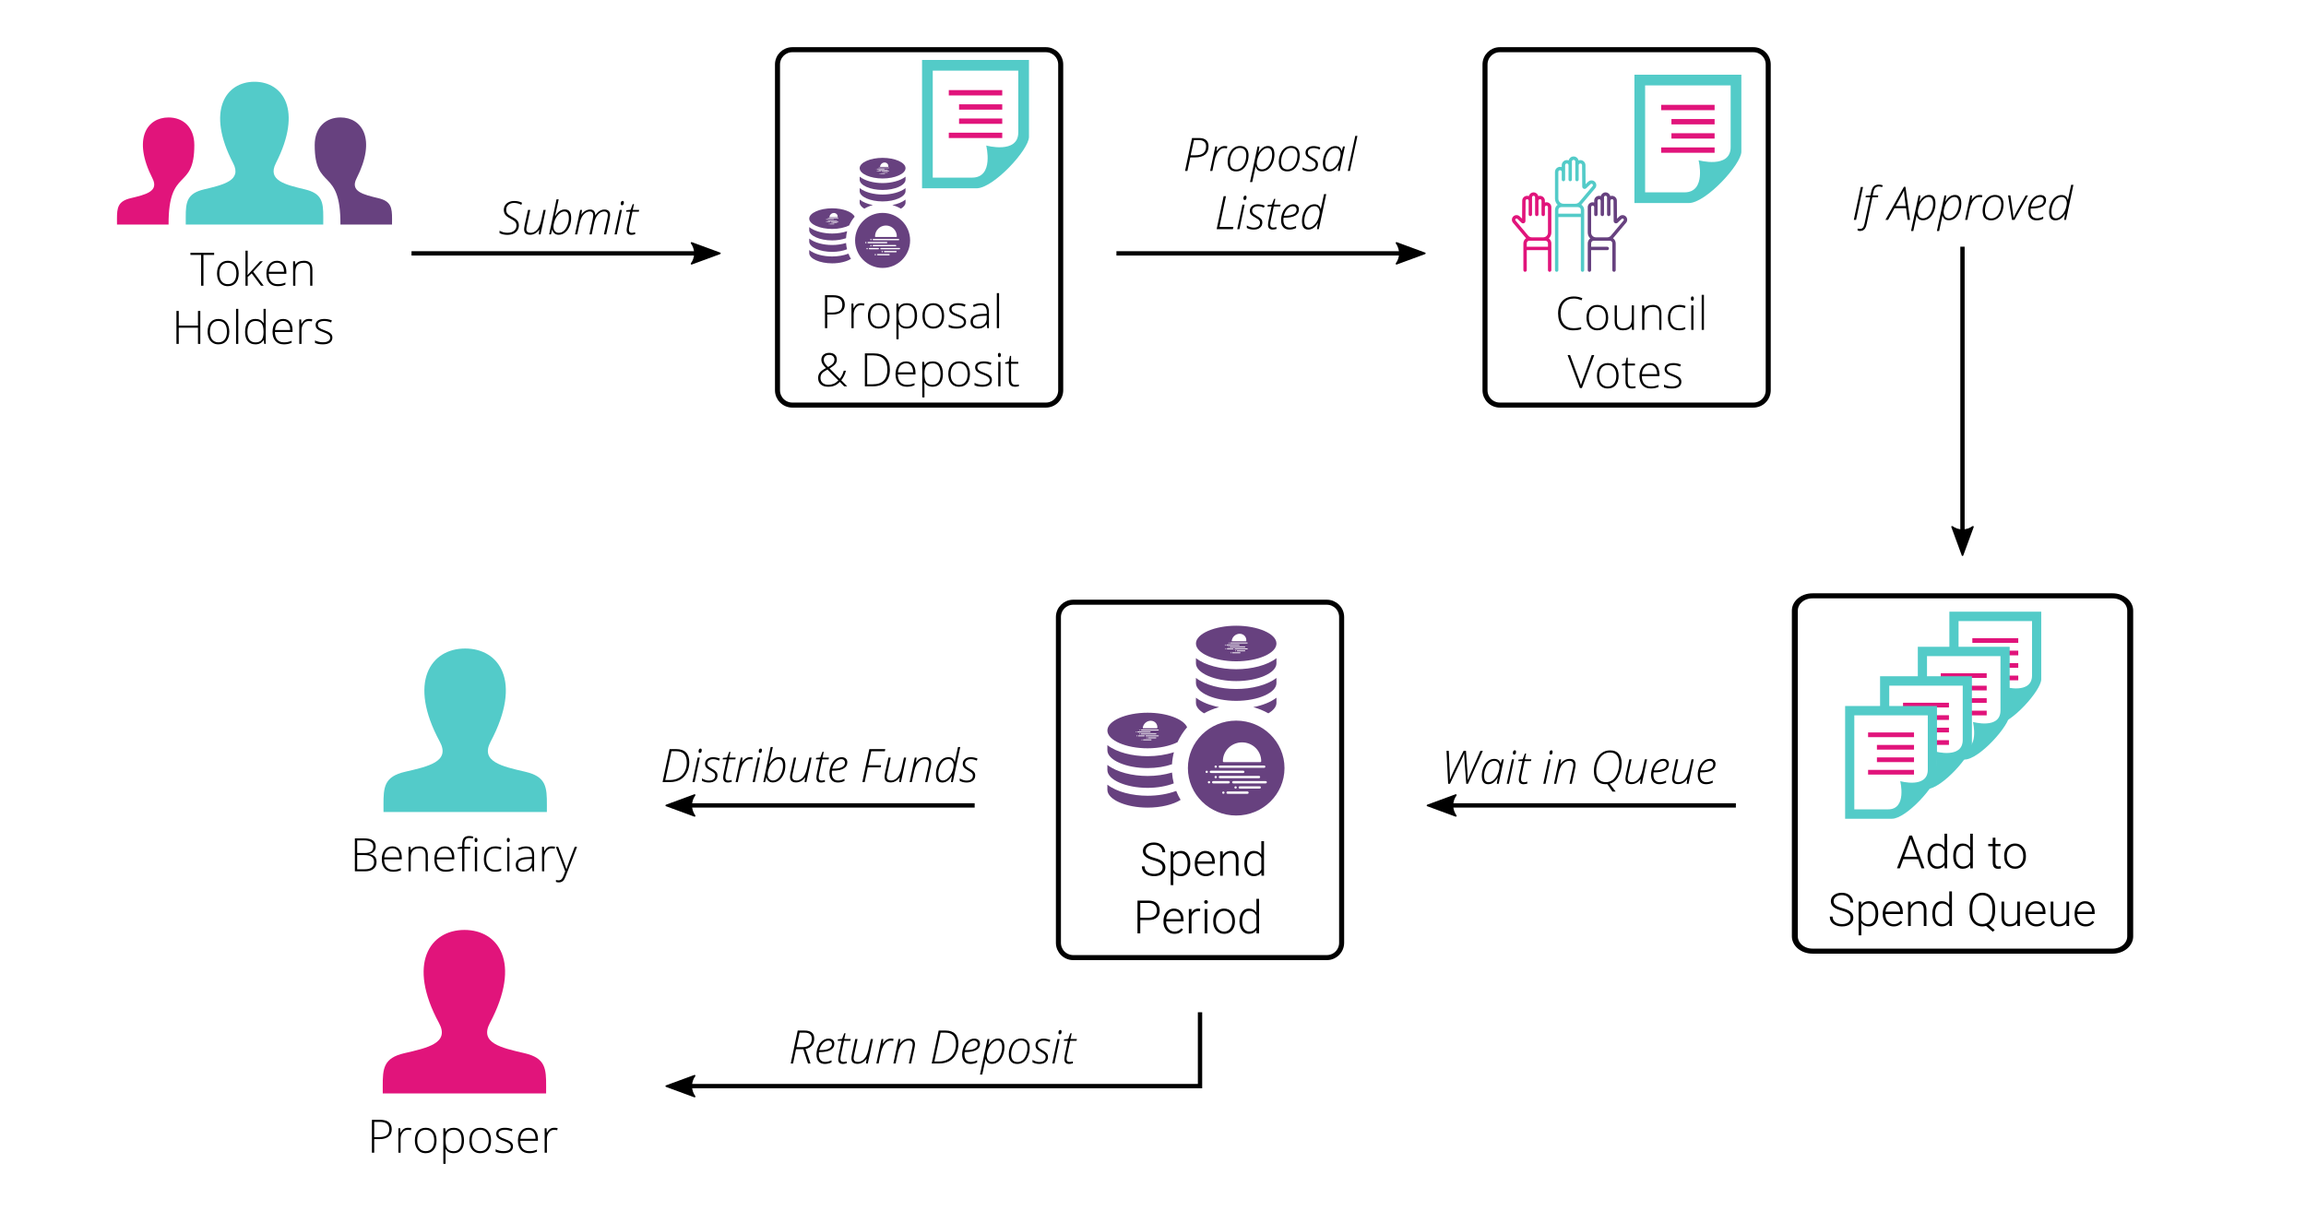
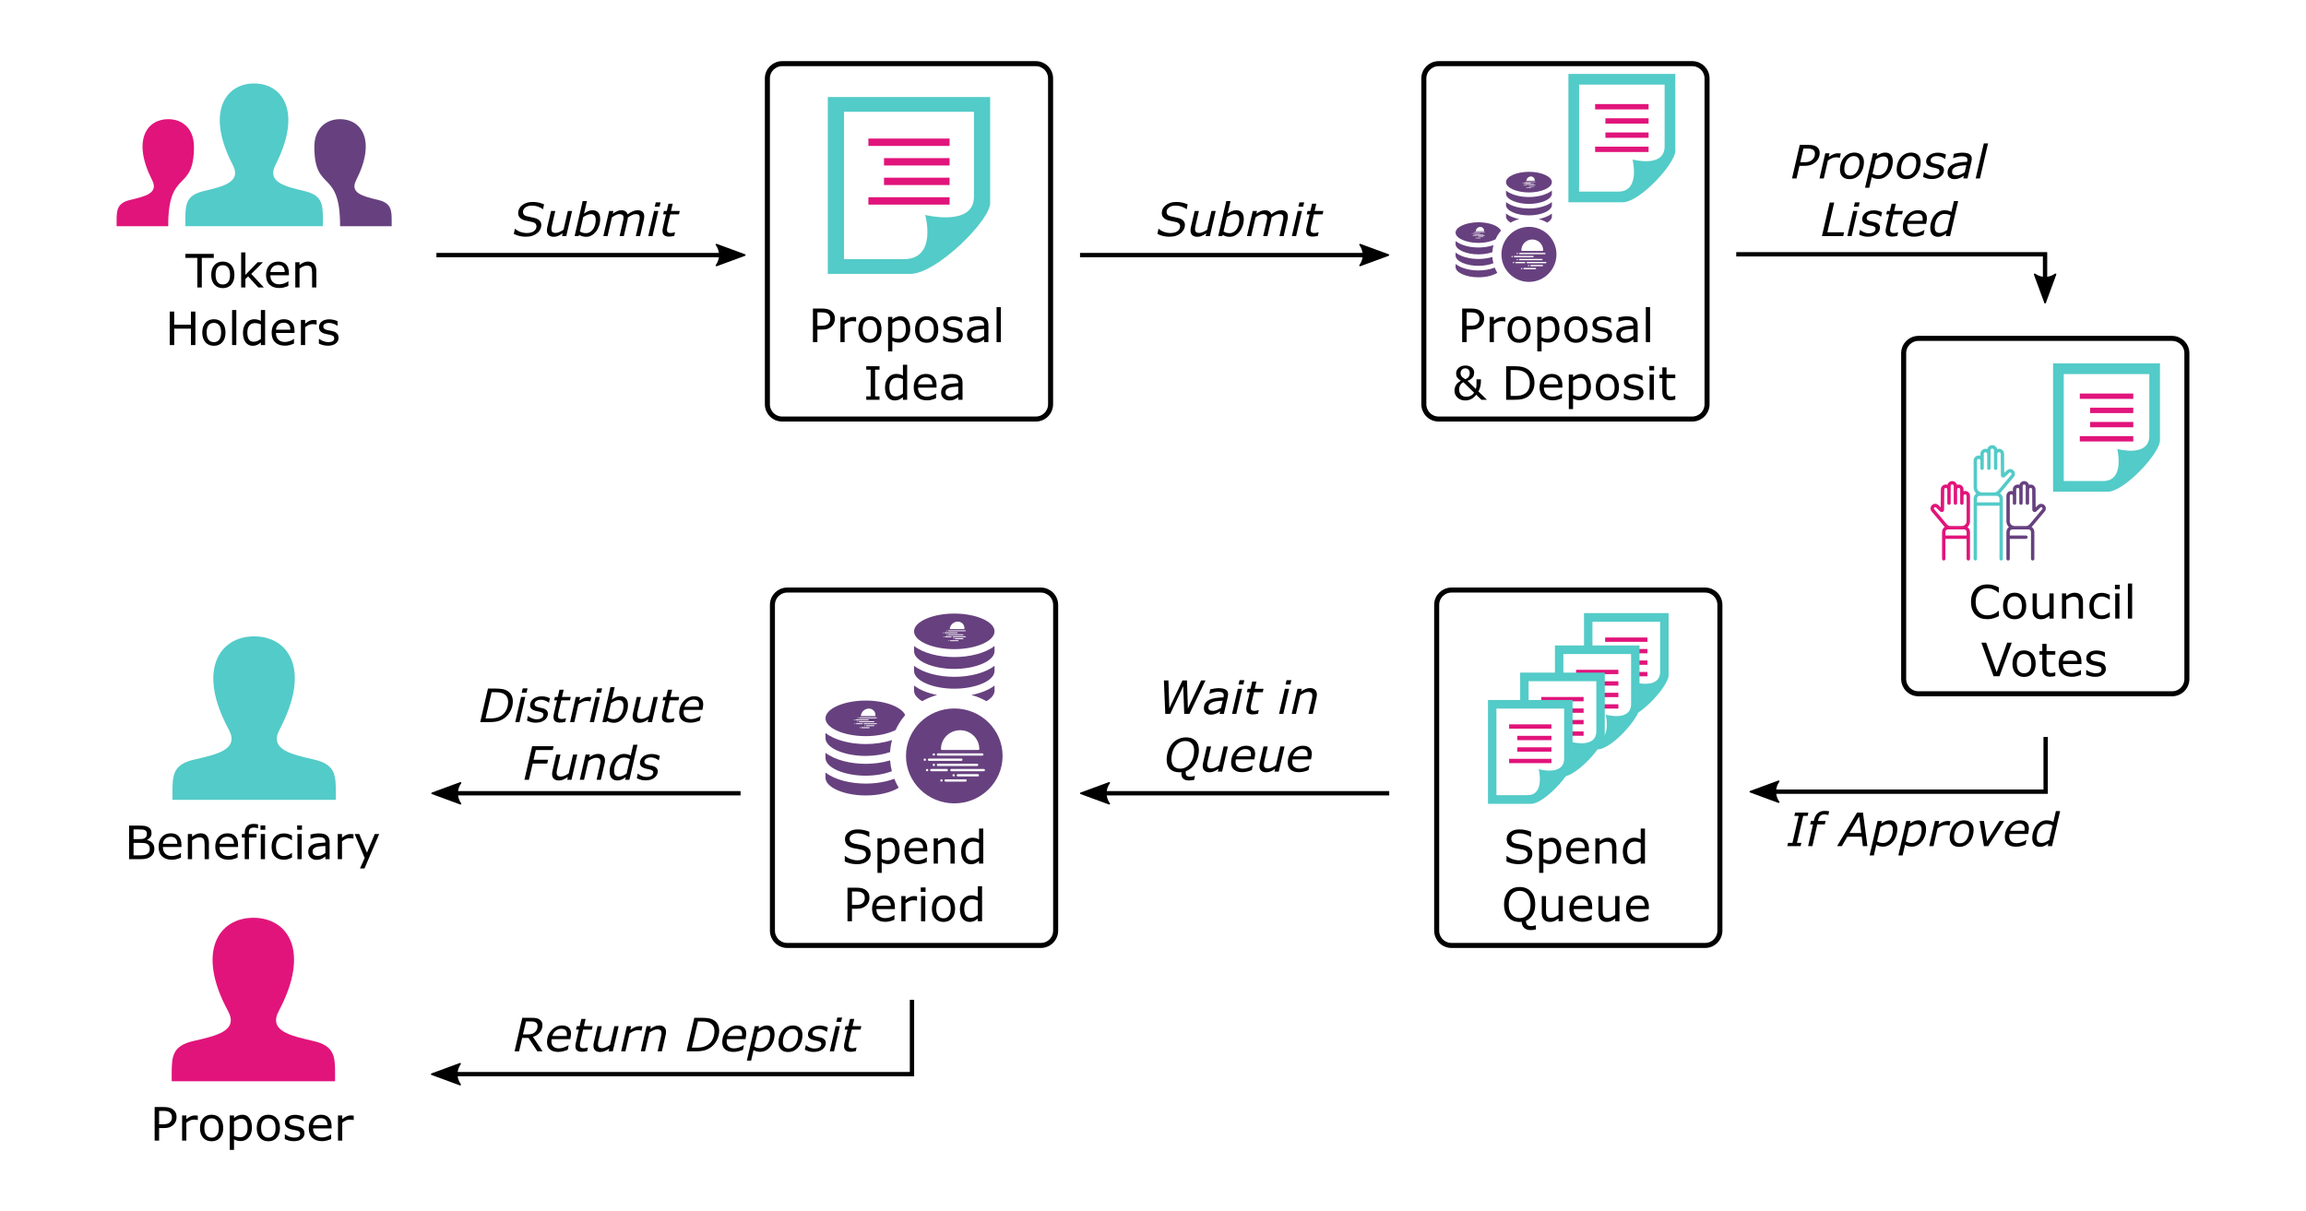
update treasury docs for the interim treasury program

diff --git a/learn/features/treasury.md b/learn/features/treasury.md
@@ -9,66 +9,65 @@ description: As a Polkadot parachain, Moonbeam has an on-chain treasury controll
 
 ## Introduction {: #introduction } 
 
-A treasury is an on-chain managed collection of funds. Moonbeam will have a community treasury for supporting network initiatives to further the network. This treasury will be funded by a percentage of transaction fees of the network and will be managed by the treasury council.
+A Treasury is an on-chain managed collection of funds. Moonbeam has a community Treasury for supporting network initiatives to further the network. Each Moonbeam-based network has its own respective Treasury. Each Treasury is funded by a percentage of transaction fees of the network it is on and is managed by the Council.
 
-Each Moonbeam-based network will have it's own treasury. In other words, the Moonbase Alpha TestNet, Moonshadow on Westend, Moonriver on Kusama, and Moonbeam on Polkadot will each have their own respective treasury. 
+As of October 19th, 2022 a community submitted referendum for an Interim Treasury Program was passed by the community. This 6-month program establishes a separate community Treasury Council to manage Treasury funds, a budget for Treasury spending, and a required discussion time to gather community feedback on possible future Treasury proposals.
 
 ## General Definitions {: #general-definitions } 
 
 Some important terminology to understand in regards to treasuries:
 
-- **Treasury council** — a group of elected individuals that control how treasury funds will be spent
-- **Proposal** — a plan or suggestion to further the network that is put forth by stakeholders to be approved by the treasury council
-- **Proposal bond** — a deposit equal to a percentage of the total proposal spend amount
-- **Proposal bond minimum** — minimum amount for a proposal bond. This is the lower limit of the bond for a treasury proposal
-- **Proposal bond maximum** — maximum amount (cap) for a proposal bond. **Proposal bonds are currently uncapped in all Moonbeam-based networks**
-- **Motion duration** - the maximum amount of time, in blocks, for treasury council members to vote on motions. Motions may end in fewer blocks if enough votes are cast to determine the result
-- **Spend period** — the amount of days, in blocks, during which the treasury funds as many proposals as possible without exceeding the maximum
+- **Treasury council** — a collective of community appointed individuals that control how Treasury funds will be spent with the community approved budget
+- **Proposal** — a plan or suggestion to further the network that is put forth by stakeholders to be approved by the Treasury Council
+- **Proposal bond** — a deposit equal to a percentage of the total proposal spend amount, as long as it meets the proposal bond minimum, otherwise the deposit is equal to the minimum
+- **Proposal bond minimum** — minimum amount for a proposal bond. This is the lower limit of the bond for a Treasury proposal
+- **Proposal bond maximum** — maximum amount (cap) for a proposal bond. **Proposal bonds are currently uncapped in all Moonbeam-based networks** <Is this still true?>
+- **Motion duration** - the maximum amount of time, in blocks, for Treasury Council members to vote on motions. Motions may end in fewer blocks if enough votes are cast to determine the result
+- **Spend period** — the amount of days, in blocks, during which the Treasury funds as many proposals as possible without exceeding the maximum
 - **Maximum approved proposals** — the maximum amount of proposals that can wait in the spending queue
 
 === "Moonbeam"
-    |             Variable             |                                                            Value                                                            |
-    |:--------------------------------:|:---------------------------------------------------------------------------------------------------------------------------:|
-    | Maximum treasury council members |                                {{ networks.moonbeam.treasury.council_max_members }} members                                 |
-    |          Proposal bond           |                            {{ networks.moonbeam.treasury.proposal_bond }}% of the proposed spend                            |
-    |      Proposal bond minimum       |                                   {{ networks.moonbeam.treasury.proposal_bond_min }} GLMR                                   |
-    |      Proposal bond maximum       |                                     {{ networks.moonbeam.treasury.proposal_bond_max }}                                      |
-    |         Motion duration          | {{ networks.moonbeam.treasury.motion_duration_blocks }} blocks ({{ networks.moonbeam.treasury.motion_duration_days }} days) |
-    |           Spend period           |    {{ networks.moonbeam.treasury.spend_period_blocks }} blocks ({{ networks.moonbeam.treasury.spend_period_days}} days)     |
-    |    Maximum approved proposals    |                                   {{ networks.moonbeam.treasury.max_approved_proposals }}                                   |
-    | % of transaction fees allocated  |                                     {{ networks.moonbeam.treasury.tx_fees_allocated }}                                      |
+    |                      Variable                      |                                                            Value                                                            |
+    |:--------------------------------------------------:|:---------------------------------------------------------------------------------------------------------------------------:|
+    |          Current Treasury Council members          |                              {{ networks.moonbeam.treasury.current_council_members }} members                               |
+    |                   Proposal bond                    |             {{ networks.moonbeam.treasury.proposal_bond }}% of the proposed spend or the proposal bond minimum              |
+    |               Proposal bond minimum                |                                   {{ networks.moonbeam.treasury.proposal_bond_min }} GLMR                                   |
+    |               Proposal bond maximum                |                                     {{ networks.moonbeam.treasury.proposal_bond_max }}                                      |
+    |                  Motion duration                   | {{ networks.moonbeam.treasury.motion_duration_blocks }} blocks ({{ networks.moonbeam.treasury.motion_duration_days }} days) |
+    |                    Spend period                    |    {{ networks.moonbeam.treasury.spend_period_blocks }} blocks ({{ networks.moonbeam.treasury.spend_period_days}} days)     |
+    |             Maximum approved proposals             |                                   {{ networks.moonbeam.treasury.max_approved_proposals }}                                   |
+    | Target % of transaction fees allocated to Treasury |                                     {{ networks.moonbeam.treasury.tx_fees_allocated }}                                      |
 
 === "Moonriver"
-    |             Variable             |                                                             Value                                                             |
-    |:--------------------------------:|:-----------------------------------------------------------------------------------------------------------------------------:|
-    | Maximum treasury council members |                                 {{ networks.moonriver.treasury.council_max_members }} members                                 |
-    |          Proposal bond           |                            {{ networks.moonriver.treasury.proposal_bond }}% of the proposed spend                             |
-    |      Proposal bond minimum       |                                   {{ networks.moonriver.treasury.proposal_bond_min }} MOVR                                    |
-    |      Proposal bond maximum       |                                      {{ networks.moonriver.treasury.proposal_bond_max }}                                      |
-    |         Motion duration          | {{ networks.moonriver.treasury.motion_duration_blocks }} blocks ({{ networks.moonriver.treasury.motion_duration_days }} days) |
-    |           Spend period           |    {{ networks.moonriver.treasury.spend_period_blocks }} blocks ({{ networks.moonriver.treasury.spend_period_days}} days)     |
-    |    Maximum approved proposals    |                                   {{ networks.moonriver.treasury.max_approved_proposals }}                                    |
-    | % of transaction fees allocated  |                                      {{ networks.moonriver.treasury.tx_fees_allocated }}                                      |
+    |                      Variable                      |                                                             Value                                                             |
+    |:--------------------------------------------------:|:-----------------------------------------------------------------------------------------------------------------------------:|
+    |          Current Treasury Council members          |                               {{ networks.moonriver.treasury.current_council_members }} members                               |
+    |                   Proposal bond                    |                 the minimim amount or {{ networks.moonriver.treasury.proposal_bond }}% of the proposed spend                  |
+    |               Proposal bond minimum                |                                   {{ networks.moonriver.treasury.proposal_bond_min }} MOVR                                    |
+    |               Proposal bond maximum                |                                      {{ networks.moonriver.treasury.proposal_bond_max }}                                      |
+    |                  Motion duration                   | {{ networks.moonriver.treasury.motion_duration_blocks }} blocks ({{ networks.moonriver.treasury.motion_duration_days }} days) |
+    |                    Spend period                    |    {{ networks.moonriver.treasury.spend_period_blocks }} blocks ({{ networks.moonriver.treasury.spend_period_days}} days)     |
+    |             Maximum approved proposals             |                                   {{ networks.moonriver.treasury.max_approved_proposals }}                                    |
+    | Target % of transaction fees allocated to Treasury |                                      {{ networks.moonriver.treasury.tx_fees_allocated }}                                      |
 
 === "Moonbase Alpha"
-    |             Variable             |                                                            Value                                                            |
-    |:--------------------------------:|:---------------------------------------------------------------------------------------------------------------------------:|
-    | Maximum treasury council members |                                {{ networks.moonbase.treasury.council_max_members }} members                                 |
-    |          Proposal bond           |                            {{ networks.moonbase.treasury.proposal_bond }}% of the proposed spend                            |
-    |      Proposal bond minimum       |                                   {{ networks.moonbase.treasury.proposal_bond_min }} DEV                                    |
-    |      Proposal bond maximum       |                                     {{ networks.moonbase.treasury.proposal_bond_max }}                                      |
-    |         Motion duration          | {{ networks.moonbase.treasury.motion_duration_blocks }} blocks ({{ networks.moonbase.treasury.motion_duration_days }} days) |
-    |           Spend period           |    {{ networks.moonbase.treasury.spend_period_blocks }} blocks ({{ networks.moonbase.treasury.spend_period_days}} days)     |
-    |    Maximum approved proposals    |                                   {{ networks.moonbase.treasury.max_approved_proposals }}                                   |
-    | % of transaction fees allocated  |                                     {{ networks.moonbase.treasury.tx_fees_allocated }}                                      |
+    |                      Variable                      |                                                            Value                                                            |
+    |:--------------------------------------------------:|:---------------------------------------------------------------------------------------------------------------------------:|
+    |                   Proposal bond                    |             {{ networks.moonbase.treasury.proposal_bond }}% of the proposed spend or the proposal bond minimum              |
+    |               Proposal bond minimum                |                                   {{ networks.moonbase.treasury.proposal_bond_min }} DEV                                    |
+    |               Proposal bond maximum                |                                     {{ networks.moonbase.treasury.proposal_bond_max }}                                      |
+    |                  Motion duration                   | {{ networks.moonbase.treasury.motion_duration_blocks }} blocks ({{ networks.moonbase.treasury.motion_duration_days }} days) |
+    |                    Spend period                    |    {{ networks.moonbase.treasury.spend_period_blocks }} blocks ({{ networks.moonbase.treasury.spend_period_days}} days)     |
+    |             Maximum approved proposals             |                                   {{ networks.moonbase.treasury.max_approved_proposals }}                                   |
+    | Target % of transaction fees allocated to Treasury |                                     {{ networks.moonbase.treasury.tx_fees_allocated }}                                      |
 
 ## Community Treasury {: #community-treasury } 
 
-The treasury is funded by a percentage of each block's transaction fees. The remaining percentage of the fees is burned (check the table above). The treasury allows stakeholders to submit spending proposals to be reviewed and voted on by the treasury council. These spending proposals should include initiatives to further the network or boost network engagement. Some network initiatives could include funding integrations or collaborations, community events, network outreach, and more. 
+The Treasury is funded by a percentage of each block's transaction fees. The remaining percentage of the fees is burned (check the table above). The Treasury allows stakeholders to submit spending proposals to be reviewed and voted on by the Treasury Council. These spending proposals should include initiatives to further the network or boost network engagement. Some network initiatives could include funding integrations or collaborations, community events, network outreach, and more. Before a proposal is submitted, the author of the proposal can submit their idea for their proposal to the designated Treasury discussion forum for feedback from the community for at least five days.
 
 To deter spam, proposals must be submitted with a deposit, also known as a proposal bond. The proposal bond is a percentage (check the table above) of the amount requested by the proposer, with a minimum amount and no upper limit (compared to Polkadot and Kusama, which have a maximum bond amount). A governance proposal can change these values. So, any token holder with enough tokens to cover the deposit can submit a proposal. If the proposer doesn't have enough funds to cover the deposit, the extrinsic will fail due to insufficient funds, but transaction fees will still be deducted. 
 
-Once a proposal has been submitted, the treasury council votes on it. The threshold for accepting a treasury proposal is at least three-fifths of the treasury council. On the other hand, the threshold for rejecting a proposal is at least one-half of the treasury council. Please note that there is no way for a user to revoke a treasury proposal after it has been submitted.
+Once a proposal has been submitted, a Treasury Council member may motion for a vote on the proposal. The Treasury Council then votes on it during the motion duration. The threshold for accepting a treasury proposal is at least three-fifths of the treasury council. On the other hand, the threshold for rejecting a proposal is at least one-half of the treasury council. If any member(s) of the Treasury Council fails to vote during the motion duration, the vote of the Treasury Council member that holds the "Default Vote" position acts as the default. The "Default Vote" position mirrors that of [Polkadot's "Prime Member"](https://wiki.polkadot.network/docs/learn-governance#prime-members){target=_blank}. Please note that there is no way for a user to revoke a treasury proposal after it has been submitted.
  
 If approved by the treasury council, the proposal enters a queue to be placed into a spend period. If the spending queue happens to contain the number of maximum approved proposals, the proposal submission will fail similarly to how it would if the proposer's balance is too low. If the proposal gets rejected, the deposit will be lost and transferred to the parachain treasury account.
 
